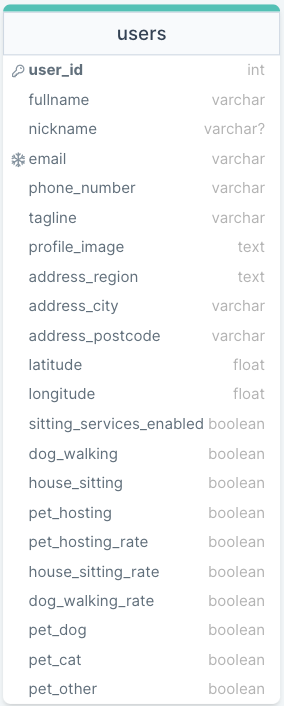
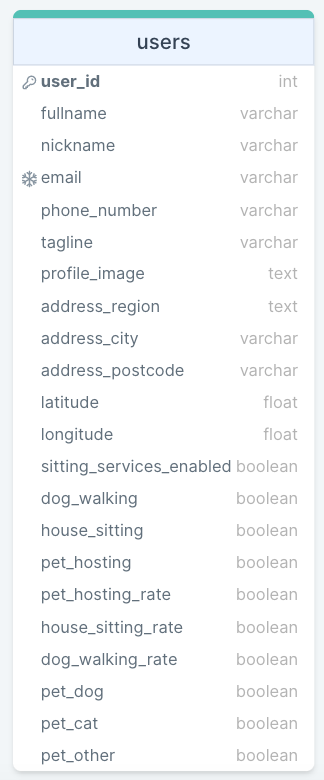
readme updated

Changed region(s): [[0.0, 0.0, 0.9859, 1.0], [0.7324, 0.0935, 0.9296, 0.5609]]

diff --git a/README.md b/README.md
@@ -93,23 +93,23 @@ To successfully run this project locally, you need to set up environment variabl
 
 ### Setting up cloud service for database
 
-- Create an empty postgres database instance via a cloud-hosted database service (ex: [ElephantSQL](https://www.elephantsql.com/docs/) or [Railway](https://ekomenyong.com/insights/how-to-setup-free-postgresql-database-on-railway-app)), and copy service connection URL.
+- Create an empty postgres database instance via a cloud-hosted database service (ex: [ElephantSQL](https://www.elephantsql.com/docs/) or [Railway](https://ekomenyong.com/insights/how-to-setup-free-postgresql-database-on-railway-app)), and copy the service connection URL.
 
 ### Setting up Authentication Providers
 
 - Create a [Github OAuth App](https://docs.github.com/en/developers/apps/building-oauth-apps/creating-an-oauth-app) and obtain the Client ID and Client Secret keys.
-- Create a [Google OAuth app](https://developers.google.com/identity/sign-in/web/sign-in)
+- Create a [Google OAuth app](https://developers.google.com/identity/sign-in/web/sign-in) and obtain the Client ID and Client Secret keys.
 
 ### Add environment variables
 
 Create a `.env` file in the root directory and insert the following environment variables. Be sure to list `.env` inside `.gitignore` file.
 
-`POSTGRES_CONNECTION_URL` = <Service connection URL>
-`GITHUB_ID`= <client ID of Github OAuth provider>
-`GITHUB_SECRET`= <client ID of Github OAuth provider>
-`GOOGLE_ID`= <client ID of Google OAuth provider>
-`GOOGLE_SECRET` =<client Secret of Google OAuth provider>
-`NEXTAUTH_URL` = <http://localhost:3000>
+`POSTGRES_CONNECTION_URL` = [Service connection URL]
+`GITHUB_ID`= [client ID of Github OAuth provider]
+`GITHUB_SECRET`= [client ID of Github OAuth provider]
+`GOOGLE_ID`= [client ID of Google OAuth provider]
+`GOOGLE_SECRET` = [client Secret of Google OAuth provider]
+`NEXTAUTH_URL` = [http://localhost:3000]
 
 ## Create and populate the database
 
@@ -135,7 +135,7 @@ Run this script to reset the database (drop tables, then recreate tables and pop
 
 The current database has been designed with a single table that merges user information and service information for ease of use. However, the database can be extended to comprise multiple tables for users, services, bookings, and reviews to enhance its structure.
 
-<img alt="table ERD" src="./petup/public/table_ERD.png"><br/>
+<img alt="table ERD" src="./petup/public/table_ERD.png" width = "700"><br/>
 
 ## Authors
 
